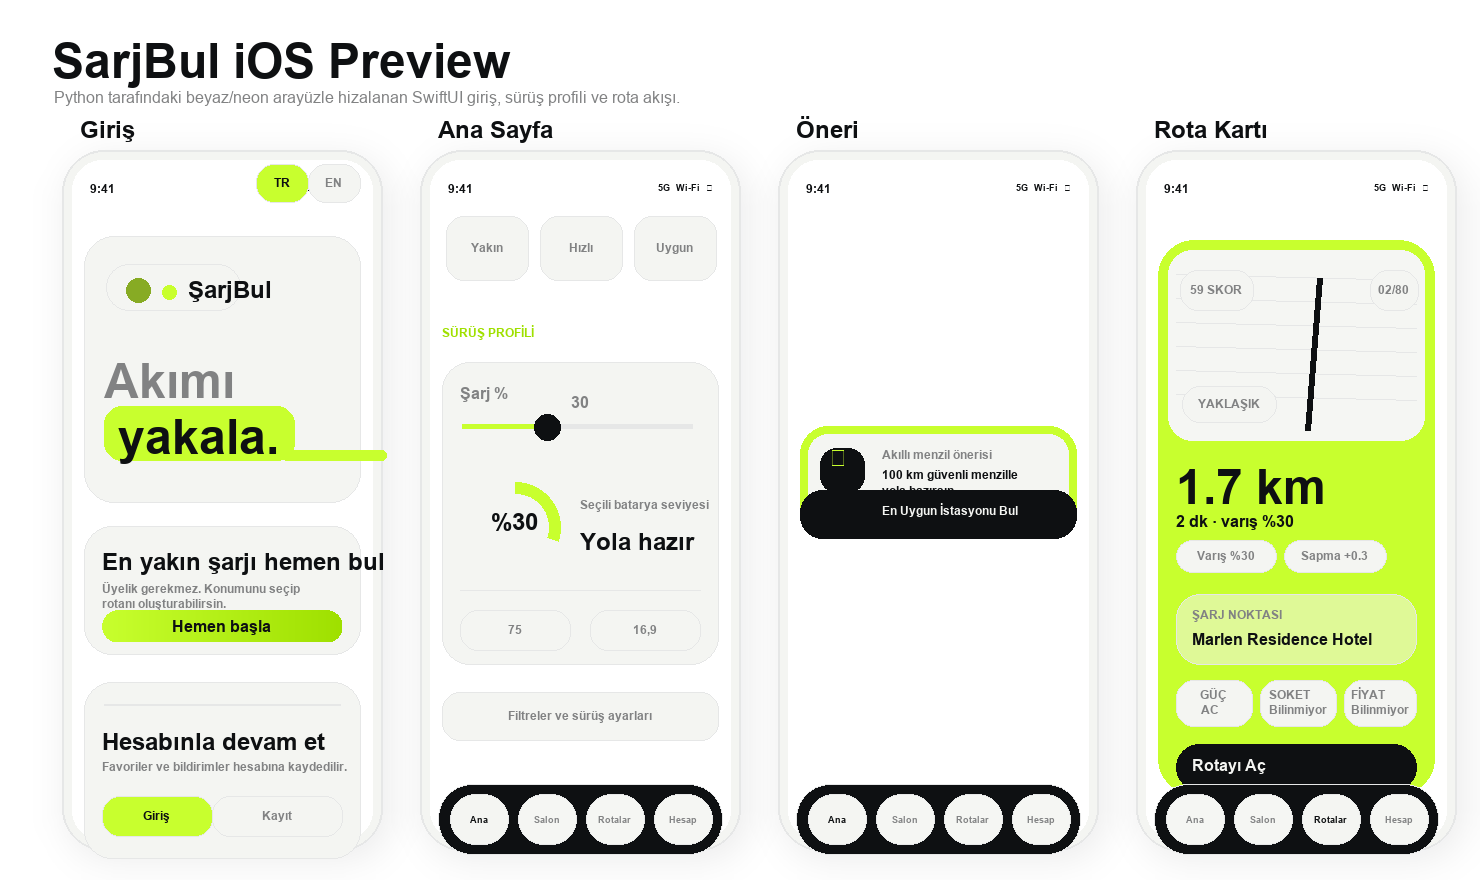
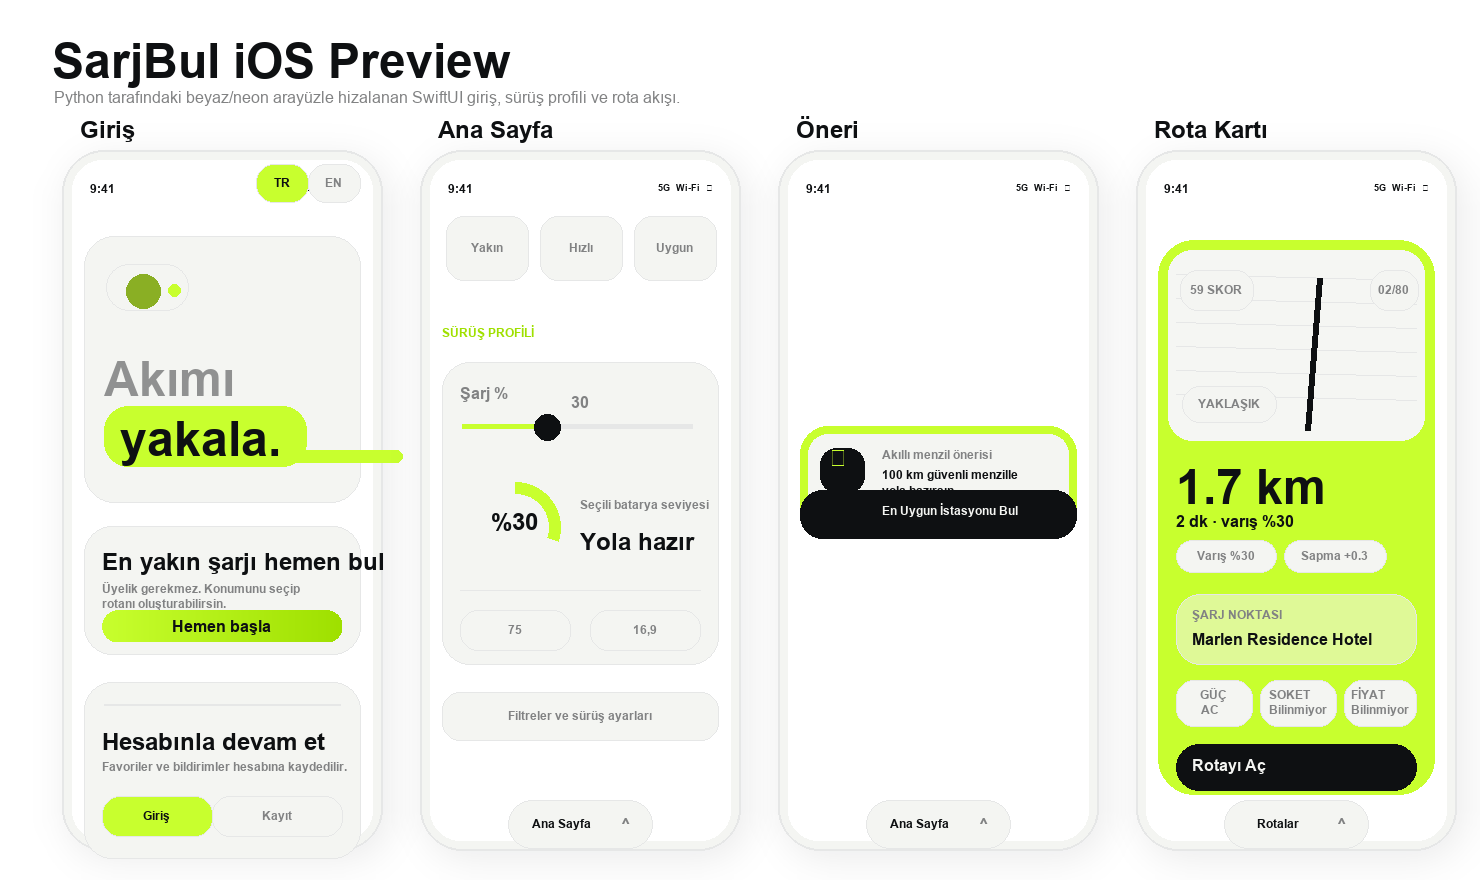
Refine iOS hero and bottom navigation

diff --git a/SarjBul/App/RootView.swift b/SarjBul/App/RootView.swift
@@ -2,12 +2,13 @@ import SwiftUI
 
 struct RootView: View {
     @Environment(AppState.self) private var appState
+    @State private var bottomNavigationExpanded = false
 
     var body: some View {
         ZStack(alignment: .bottom) {
             currentScreen
                 .safeAreaInset(edge: .bottom) {
-                    Color.clear.frame(height: appState.tab == .account ? 0 : 112)
+                    Color.clear.frame(height: bottomInsetHeight)
                 }
 
             if appState.tab != .account {
@@ -18,6 +19,10 @@ struct RootView: View {
         .tint(SBColor.accent)
         .preferredColorScheme(.light)
         .task { await appState.load() }
+        .onChange(of: appState.tab) { _, tab in
+            guard tab != .account else { return }
+            bottomNavigationExpanded = false
+        }
         .alert(appState.messageTitle, isPresented: Binding(
             get: { appState.message != nil },
             set: { if !$0 { appState.dismissMessage() } }
@@ -31,6 +36,11 @@ struct RootView: View {
         } message: {
             Text(appState.message ?? "")
         }
+    }
+
+    private var bottomInsetHeight: CGFloat {
+        guard appState.tab != .account else { return 0 }
+        return bottomNavigationExpanded ? 118 : 76
     }
 
     @ViewBuilder
@@ -47,51 +57,134 @@ struct RootView: View {
         }
     }
 
+    @ViewBuilder
     private var bottomNavigation: some View {
-        HStack(spacing: 8) {
-            tabButton(.home, title: appState.t("bottom.home"), icon: "house")
-            tabButton(.lounge, title: appState.t("bottom.map"), icon: "gamecontroller")
-            tabButton(.routes, title: appState.t("bottom.routes"), icon: "point.topleft.down.curvedto.point.bottomright.up")
-            tabButton(.account, title: appState.t("bottom.account"), icon: "person")
+        if bottomNavigationExpanded {
+            expandedBottomNavigation
+                .transition(.move(edge: .bottom).combined(with: .opacity).combined(with: .scale(scale: 0.96)))
+        } else {
+            collapsedBottomNavigation
+                .transition(.move(edge: .bottom).combined(with: .opacity).combined(with: .scale(scale: 0.92)))
         }
-        .padding(10)
-        .background(SBColor.electricBlue.opacity(0.92))
-        .clipShape(Capsule())
-        .overlay(
-            Capsule()
-                .stroke(SBColor.lineStrong, lineWidth: 1)
-        )
-        .padding(.horizontal, 18)
-        .padding(.bottom, 10)
-        .sbCardShadow()
     }
 
-    private func tabButton(_ tab: AppState.Tab, title: String, icon: String) -> some View {
+    private var expandedBottomNavigation: some View {
+        HStack(spacing: 8) {
+            tabButton(.home)
+            tabButton(.lounge)
+            tabButton(.routes)
+            tabButton(.account)
+        }
+        .padding(8)
+        .background(
+            Capsule()
+                .fill(SBColor.glassStrong.opacity(0.96))
+                .overlay(
+                    Capsule()
+                        .stroke(SBColor.line, lineWidth: 1)
+                )
+        )
+        .padding(.horizontal, 16)
+        .padding(.bottom, 12)
+        .shadow(color: SBColor.electricBlue.opacity(0.16), radius: 24, x: 0, y: 16)
+    }
+
+    private var collapsedBottomNavigation: some View {
+        Button {
+            Haptic.tap()
+            withAnimation(.spring(response: 0.34, dampingFraction: 0.82)) {
+                bottomNavigationExpanded = true
+            }
+        } label: {
+            HStack(spacing: 10) {
+                Image(systemName: currentTabIcon)
+                    .font(.headline.weight(.heavy))
+                Text(currentTabTitle)
+                    .font(.subheadline.weight(.heavy))
+                    .lineLimit(1)
+                    .minimumScaleFactor(0.76)
+                Image(systemName: "chevron.up")
+                    .font(.caption.weight(.heavy))
+                    .foregroundStyle(SBColor.muted)
+            }
+            .foregroundStyle(SBColor.ink)
+            .padding(.horizontal, 18)
+            .frame(height: 54)
+            .background(SBColor.glassStrong.opacity(0.98))
+            .clipShape(Capsule())
+            .overlay(
+                Capsule()
+                    .stroke(SBColor.line, lineWidth: 1)
+            )
+            .shadow(color: SBColor.electricBlue.opacity(0.14), radius: 18, x: 0, y: 10)
+        }
+        .buttonStyle(.plain)
+        .padding(.bottom, 14)
+    }
+
+    private func tabButton(_ tab: AppState.Tab) -> some View {
         let isSelected = appState.tab == tab
         return Button {
             Haptic.tap()
             withAnimation(.spring(response: 0.36, dampingFraction: 0.82)) {
                 appState.tab = tab
+                bottomNavigationExpanded = false
             }
         } label: {
-            HStack(spacing: 10) {
-                Image(systemName: icon)
-                    .font(.headline.weight(.bold))
-                Text(title)
-                    .font(.subheadline.weight(.heavy))
+            VStack(spacing: 5) {
+                Image(systemName: tabIcon(tab))
+                    .font(.headline.weight(.heavy))
+                    .frame(height: 18)
+                Text(tabTitle(tab))
+                    .font(.caption2.weight(.heavy))
                     .lineLimit(1)
-                    .minimumScaleFactor(0.78)
+                    .minimumScaleFactor(0.68)
+                    .allowsTightening(true)
             }
-            .foregroundStyle(isSelected ? SBColor.ink : SBColor.muted)
+            .foregroundStyle(isSelected ? .white : SBColor.muted)
             .frame(maxWidth: .infinity)
-            .frame(height: 60)
-            .background(isSelected ? SBColor.surface : SBColor.glassStrong)
-            .clipShape(Capsule())
+            .frame(height: 58)
+            .background(isSelected ? SBColor.electricBlue : SBColor.surface.opacity(0.86))
+            .clipShape(RoundedRectangle(cornerRadius: 22, style: .continuous))
             .overlay(
-                Capsule()
+                RoundedRectangle(cornerRadius: 22, style: .continuous)
                     .stroke(isSelected ? SBColor.lineStrong : SBColor.line, lineWidth: 1)
             )
         }
         .buttonStyle(.plain)
+    }
+
+    private var currentTabTitle: String {
+        tabTitle(appState.tab)
+    }
+
+    private var currentTabIcon: String {
+        tabIcon(appState.tab)
+    }
+
+    private func tabTitle(_ tab: AppState.Tab) -> String {
+        switch tab {
+        case .home:
+            appState.t("bottom.home")
+        case .lounge:
+            appState.t("bottom.map")
+        case .routes:
+            appState.t("bottom.routes")
+        case .account:
+            appState.t("bottom.account")
+        }
+    }
+
+    private func tabIcon(_ tab: AppState.Tab) -> String {
+        switch tab {
+        case .home:
+            "house"
+        case .lounge:
+            "gamecontroller"
+        case .routes:
+            "point.topleft.down.curvedto.point.bottomright.up"
+        case .account:
+            "person"
+        }
     }
 }

diff --git a/SarjBul/Features/Account/AccountView.swift b/SarjBul/Features/Account/AccountView.swift
@@ -40,39 +40,73 @@ struct AccountView: View {
     private var heroPanel: some View {
         ZStack(alignment: .leading) {
             RoundedRectangle(cornerRadius: SBRadius.card, style: .continuous)
-                .fill(SBColor.surface)
+                .fill(LinearGradient.sbSoftPanel)
                 .overlay(
                     RoundedRectangle(cornerRadius: SBRadius.card, style: .continuous)
                         .stroke(SBColor.line, lineWidth: 1)
                 )
                 .sbSoftShadow()
 
-            VStack(alignment: .leading, spacing: 56) {
-                SBBrandMark()
-
-                VStack(alignment: .leading, spacing: -10) {
-                    Text(appState.t("auth.hero_line1"))
-                        .font(SBFont.display(size: 72, weight: .heavy))
-                        .foregroundStyle(SBColor.muted)
-                    Text(appState.t("auth.hero_line2"))
-                        .font(SBFont.display(size: 72, weight: .heavy))
-                        .foregroundStyle(SBColor.ink)
-                        .padding(.horizontal, 16)
-                        .padding(.vertical, 4)
-                        .background(SBColor.accent)
-                        .clipShape(RoundedRectangle(cornerRadius: SBRadius.md, style: .continuous))
+            VStack(alignment: .leading, spacing: 34) {
+                HStack(spacing: 10) {
+                    Circle()
+                        .fill(LinearGradient.sbPrimary)
+                        .frame(width: 34, height: 34)
+                        .overlay(alignment: .trailing) {
+                            Circle()
+                                .fill(SBColor.accent)
+                                .frame(width: 38, height: 38)
+                                .opacity(0.2)
+                                .offset(x: 22)
+                        }
+                    Circle()
+                        .fill(SBColor.accent)
+                        .frame(width: 12, height: 12)
+                        .padding(.leading, 8)
                 }
-                .minimumScaleFactor(0.72)
+                .padding(.horizontal, 18)
+                .padding(.vertical, 14)
+                .background(SBColor.glassStrong)
+                .clipShape(Capsule())
+                .overlay(
+                    Capsule()
+                        .stroke(SBColor.line, lineWidth: 1)
+                )
+                .sbSoftShadow()
+
+                VStack(alignment: .leading, spacing: 2) {
+                    Text(appState.t("auth.hero_line1"))
+                        .font(SBFont.display(size: 82, weight: .heavy))
+                        .foregroundStyle(SBColor.ink.opacity(0.46))
+                        .lineLimit(1)
+                        .minimumScaleFactor(0.72)
+                    Text(appState.t("auth.hero_line2"))
+                        .font(SBFont.display(size: 86, weight: .heavy))
+                        .foregroundStyle(SBColor.ink)
+                        .lineLimit(1)
+                        .minimumScaleFactor(0.6)
+                        .padding(.horizontal, 18)
+                        .padding(.vertical, 8)
+                        .background(
+                            LinearGradient(
+                                colors: [SBColor.accent, SBColor.primaryDeep.opacity(0.78)],
+                                startPoint: .leading,
+                                endPoint: .trailing
+                            )
+                        )
+                        .clipShape(RoundedRectangle(cornerRadius: 24, style: .continuous))
+                        .shadow(color: SBColor.accent.opacity(0.26), radius: 24, x: 0, y: 14)
+                }
 
                 HStack {
                     Spacer()
                     Capsule()
-                        .fill(SBColor.accent)
-                        .frame(width: 210, height: 18)
-                        .offset(x: 76)
+                        .fill(LinearGradient.sbNeon)
+                        .frame(width: 230, height: 14)
+                        .offset(x: 88)
                 }
             }
-            .padding(28)
+            .padding(30)
         }
         .frame(minHeight: 360)
     }

diff --git a/Scripts/render_readme_preview.py b/Scripts/render_readme_preview.py
@@ -141,13 +141,11 @@ def primary(canvas, box, label):
 
 def bottom_nav(canvas, ax, ay, active="home"):
     draw = ImageDraw.Draw(canvas)
-    nav = (ax - 4, ay + 576, ax + 280, ay + 646)
-    rounded(draw, nav, radius=34, fill=ELECTRIC, outline=LINE, width=1)
-    tabs = [("home", "Ana", ax + 8), ("lounge", "Salon", ax + 76), ("routes", "Rotalar", ax + 144), ("account", "Hesap", ax + 212)]
-    for key, label, tx in tabs:
-        fill = SURFACE if key == active else SURFACE_SOFT
-        rounded(draw, (tx, ay + 586, tx + 58, ay + 636), radius=25, fill=fill, outline=LINE)
-        text(draw, (tx + 29, ay + 611), label, fill=INK if key == active else MUTED, font_key="tiny", anchor="mm")
+    labels = {"home": "Ana Sayfa", "lounge": "Salon", "routes": "Rotalar", "account": "Hesap"}
+    nav = (ax + 66, ay + 592, ax + 210, ay + 640)
+    rounded(draw, nav, radius=24, fill=SURFACE, outline=LINE, width=1)
+    text(draw, (ax + 120, ay + 616), labels.get(active, "Menü"), fill=INK, font_key="small_b", anchor="mm")
+    text(draw, (ax + 184, ay + 616), "^", fill=MUTED, font_key="body_b", anchor="mm")
 
 
 def account(canvas, x, y):
@@ -158,14 +156,13 @@ def account(canvas, x, y):
     pill(canvas, (ax + 224, ay - 44, ax + 276, ay - 6), "EN")
     hero = (ax, ay + 28, ax + 276, ay + 294)
     rounded(draw, hero, radius=RADII["card"], fill=SURFACE)
-    rounded(draw, (ax + 22, ay + 56, ax + 156, ay + 102), radius=23, fill=SURFACE, outline=LINE)
-    draw.ellipse((ax + 42, ay + 70, ax + 66, ay + 94), fill=gradient((24, 24)).getpixel((8, 8)))
-    draw.ellipse((ax + 78, ay + 77, ax + 92, ay + 91), fill=ACCENT)
-    text(draw, (ax + 104, ay + 68), "ŞarjBul", font_key="h2")
-    text(draw, (ax + 20, ay + 146), "Akımı", fill=MUTED, font_key="title")
-    rounded(draw, (ax + 20, ay + 198, ax + 210, ay + 252), radius=RADII["md"], fill=ACCENT, outline=None)
-    text(draw, (ax + 34, ay + 202), "yakala.", font_key="title")
-    draw.rounded_rectangle((ax + 198, ay + 242, ax + 302, ay + 252), radius=5, fill=ACCENT)
+    rounded(draw, (ax + 22, ay + 56, ax + 104, ay + 102), radius=23, fill=SURFACE, outline=LINE)
+    draw.ellipse((ax + 42, ay + 66, ax + 76, ay + 100), fill=gradient((34, 34)).getpixel((11, 11)))
+    draw.ellipse((ax + 84, ay + 76, ax + 96, ay + 88), fill=ACCENT)
+    text(draw, (ax + 20, ay + 144), "Akımı", fill=blend(INK, BG, 0.46), font_key="title")
+    rounded(draw, (ax + 20, ay + 198, ax + 222, ay + 258), radius=24, fill=ACCENT, outline=None)
+    text(draw, (ax + 36, ay + 204), "yakala.", font_key="title")
+    draw.rounded_rectangle((ax + 198, ay + 242, ax + 318, ay + 254), radius=6, fill=ACCENT)
 
     guest = (ax, ay + 318, ax + 276, ay + 446)
     rounded(draw, guest, radius=RADII["xl"])